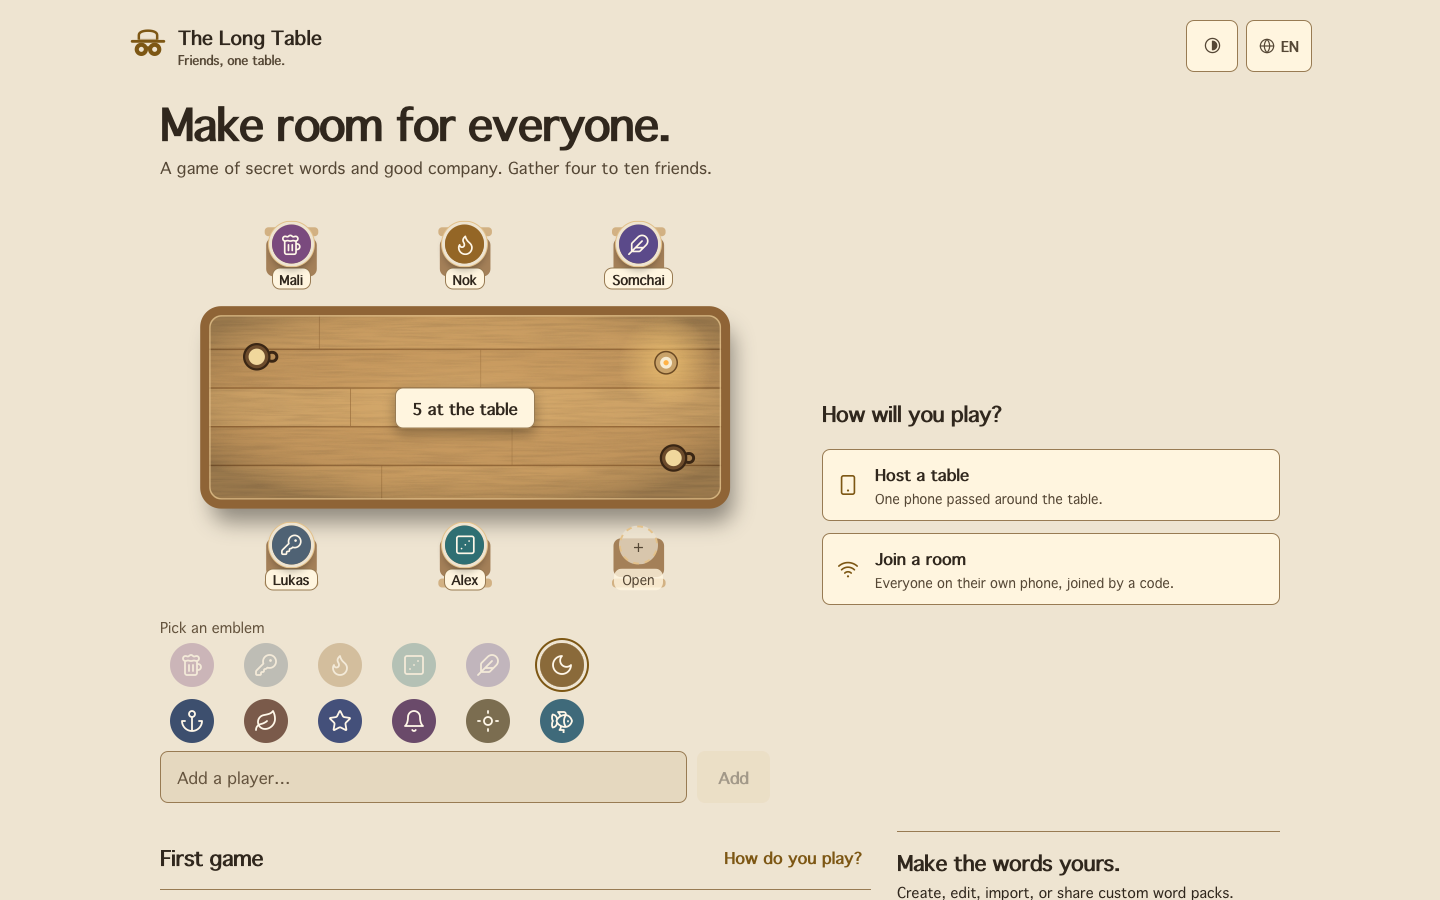
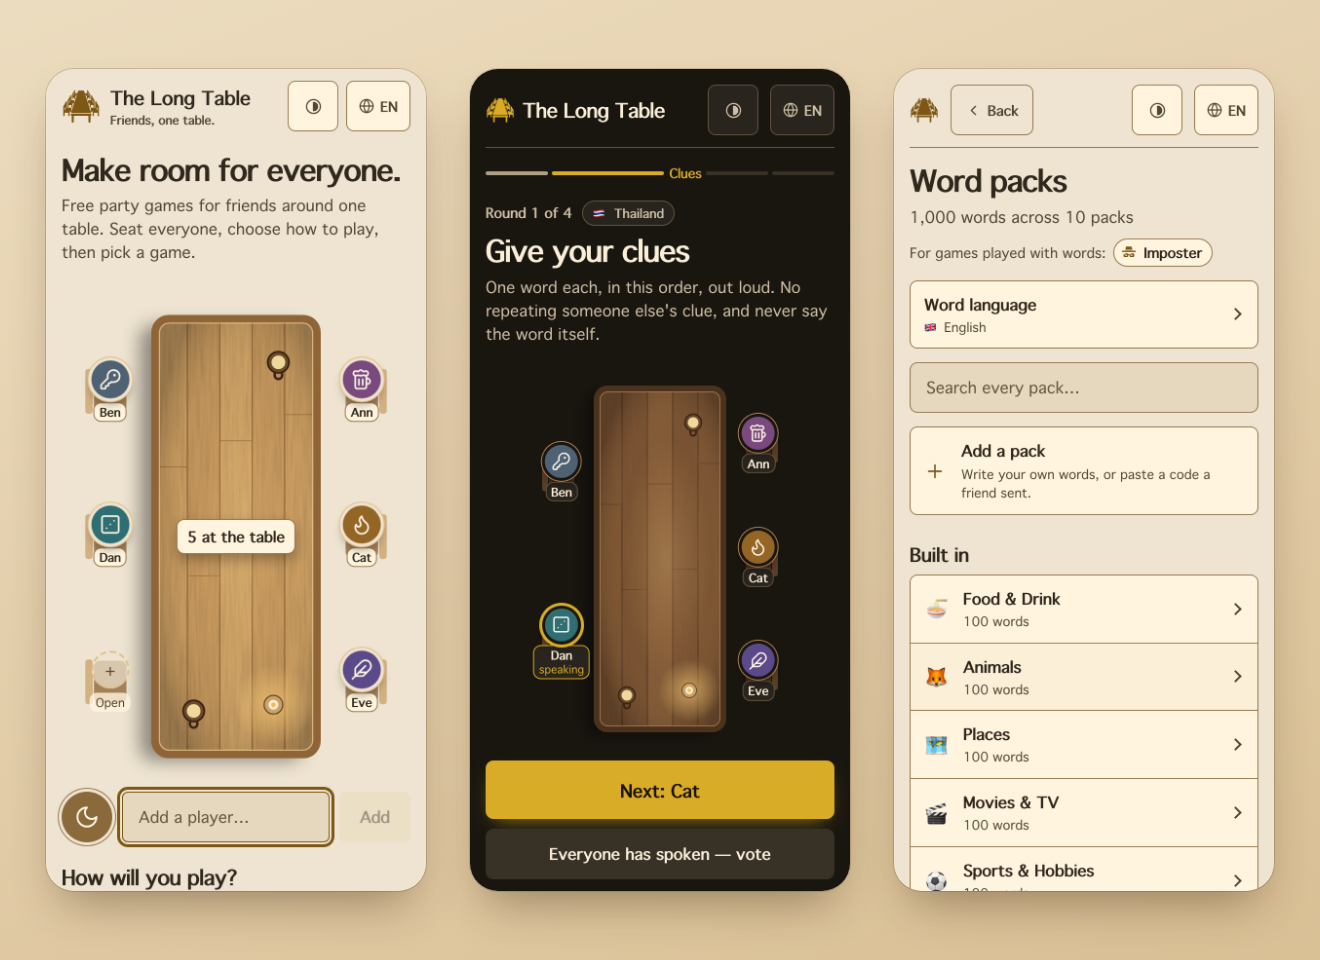
README rebuilt for the game as it is now (#119) (#128)
Features gain the community library and what makes it suit a table; the
rules, looks and sound sections match the rows-and-sheets settings and the
Display sheet; the recipes cover motion tokens, interaction.css,
motionMs and adding a sound; the structure lists ui/sound and the
community packs; the screenshot shows the hub, a round in dark and the
pack library. The GitHub About description and topics match (netlify
removed).

Closes #119

diff --git a/README.md b/README.md
@@ -10,17 +10,19 @@ Free, highly customisable party games for friends around one table, on one phone
 
 **[Play The Long Table →](https://unknown-x0.github.io/The-Long-Table/)** · [Changelog](CHANGELOG.md) · [Playtest guide](PLAYTEST.md) · [Report a bug](https://github.com/UNKNOWN-X0/The-Long-Table/issues)
 
-![The Long Table](assets/preview.png)
+![The hub with five people seated, a round of clues in dark mode, and the word pack library](assets/preview.png)
 
 ## Features
 
 - **Free:** no account, no ads, no tracking and nothing to buy. Open source: the code is MIT and the built-in word packs are CC BY-NC-SA 4.0.
-- **Highly customisable:** your own word packs (typed, pasted, written with any AI chat, or loaded from a friend's share code), presets or every rule by hand, optional roles, scoring, an emblem for every player, five wood themes in light or dark.
+- **Highly customisable:** your own word packs (typed, pasted, written with any AI chat, or loaded from a friend's share code), four presets or every rule by hand, optional roles, scoring, a clue timer, an emblem for every player, five wood themes in light or dark.
+- **A community library:** share a pack with everyone through a short GitHub form; once it has been read it appears under **From the community** in every table's pack library, one tap from **Add to my packs**.
 - **One table for every game:** the group sits down once at the hub, each with a name and an emblem, and every game starts with the people already seated.
 - **Two ways to play:** pass one phone around the table, or everyone on their own phone in a room joined by a code or a link.
 - **Imposter, the first game:** everyone but the imposters gets the same secret word; one-word clues, a vote, and a last guess for the imposter. Ten built-in packs per language.
 - **Three languages:** English, Thai and German, with the interface language and the word language chosen separately.
 - **Fair by design:** your card shows only while you hold it, and a room's server never sends a phone a word or role it should not hold.
+- **Made for a table:** the button you need next stays under your thumb, every step opens at its top, the verdict gets a moment of suspense, and sound effects (off until you turn them on) mark the deal, the card, the vote and the win.
 - **Picks up where you left off:** saved one-phone rounds, room reconnection, players shown as away, and the host role handed on when the host leaves.
 
 ## Getting started
@@ -53,14 +55,16 @@ For phone-to-phone play, `npm run party` builds the site and serves it on your w
 | One phone | Seat everyone at the hub, choose **Play on one phone**, pick a game, then pass the phone; each player holds their card to see it, and it covers again when they let go. | A browser. Use the link above. |
 | Room | The host chooses **Play in a room** and picks a game; everyone else joins on their own phone with the code (**Have a code?**) or the link the host shares. | The Node server, on the same wifi or publicly hosted ([Deploying](#deploying)). |
 
+New to it? **How it works**, at the foot of the hub, explains the table; each game's card has its own **How to play**.
+
 ### Making it yours
 
 Everything here is a setting or a pack, with no code:
 
 - **Word packs:** open the pack library from the hub. Write a pack by typing or pasting one entry per line (`word, near miss`), or use **Write it with AI** to copy a ready prompt into any AI chat and paste its answer back. The editor reports every line it could not use, quoting it. **Send this to anybody** turns a pack into a code a friend can load, and **Share it with everyone** sends it to the community library: a reviewed pack appears under **From the community** in every table's pack library, with **Add to my packs**.
-- **Rules:** start from Quick, Careful or Chaos, then change anything under **Customize rules and roles**: how many imposters, what they see, whether they know, rounds, calling the word, the last guess, roles and scoring.
+- **Rules:** pick **Standard**, **Quick**, **Careful** or **Chaos**, then change anything in the list below them: each setting is one row saying what it is set to, and tapping it opens its choices. How many imposters, what they see, whether they know, rounds, the time per speaker, calling the word, the last guess, roles and scoring. Change any of them and **Your own rules** says which preset you started from.
 - **The table:** each player picks one of twelve emblems; the host can tap a seat to remove someone.
-- **Looks and language:** five woods (Birch, Oak, Teak, Mahogany, Walnut) in light or dark, and English, Thai or German, each chosen per phone.
+- **Looks, sound and language:** the **Display** button holds light or dark, sound effects, and five woods (Birch, Oak, Teak, Mahogany, Walnut); the language button holds English, Thai or German. Each is chosen per phone, never for the whole table.
 
 ### The games
 
@@ -72,7 +76,7 @@ More games are planned ([roadmap](ROADMAP.md)); each joins the same table and pa
 
 ## Privacy
 
-Everything a group sets up stays in the browser's local storage on that phone: the party and emblems, settings, custom packs, scores and a saved one-phone round. Nothing is collected: no account, no analytics, no tracking. In a room, the server keeps each room in memory and sends every phone a scrubbed copy plus its own card, so the word never reaches an imposter's device; besides the game it shares only each player's emblem and whether their phone is connected. To survive a restart it writes rooms, including the word in play, to `.rooms.json` (mode `0600`, ignored by Git, `ROOM_STORE=off` to disable). Error reports name the version, mode, phase, player count and recent actions by name, never the word, the near miss, or who was dealt what.
+Everything a group sets up stays in the browser's local storage on that phone: the party and emblems, settings, custom packs, scores, the display, sound and language choices, and a saved one-phone round. Community packs ship with the site, so nothing is fetched from GitHub while you play. Nothing is collected: no account, no analytics, no tracking. In a room, the server keeps each room in memory and sends every phone a scrubbed copy plus its own card, so the word never reaches an imposter's device; besides the game it shares only each player's emblem and whether their phone is connected. To survive a restart it writes rooms, including the word in play, to `.rooms.json` (mode `0600`, ignored by Git, `ROOM_STORE=off` to disable). Error reports name the version, mode, phase, player count and recent actions by name, never the word, the near miss, or who was dealt what.
 
 ## Development
 
@@ -91,7 +95,9 @@ Each recipe ends in the test that catches the step people forget.
 - **A game that plays with words.** Set `words: true` on its entry in `src/games/index.js`; the pack library, the hub's packs section and its game card then name it as a game the packs are for. A game without words leaves it out and never shows the packs.
 - **Add a source of words.** A file in `src/content/words/sources.js` that answers `packsFor(lang, context)`.
 - **Add a theme.** An entry in `THEMES` (`src/ui/theme/themes.js`), `theme.<id>` in the three string tables, and two palette blocks in `src/ui/styles/tokens.css`. `src/ui/theme/theme.test.js` reads the stylesheet and reports a missing token, a contrast failure, or a chip unlike its theme.
-- **Change the look.** Two dials on `tokens.css`: `data-mode` and `data-theme`; the themes are Birch, Oak (default), Teak, Mahogany, and Walnut. `--accent` is the action fill with `--on-accent` on it; `--accent-text` is the contrast-checked action colour for words and icons. Icons live in `src/ui/icons/` (24px grid, one 1.8 stroke, one motion each behind `anim`); open `#icons` for the sheet. A new icon starts from the matching Lucide drawing (lucide-static 0.460.0, ISC; add it to `NOTICE.md`) with its animated parts wrapped in named groups. Non-essential motion follows the shared timing tokens and `prefers-reduced-motion`.
+- **Change the look.** Two dials on `tokens.css`: `data-mode` and `data-theme`; the themes are Birch, Oak (default), Teak, Mahogany, and Walnut. `--accent` is the action fill with `--on-accent` on it; `--accent-text` is the contrast-checked action colour for words and icons. Icons live in `src/ui/icons/` (24px grid, one 1.8 stroke, one motion each behind `anim`); open `#icons` for the sheet. Every interface icon is a Lucide drawing (lucide-static 0.460.0, ISC, listed in `NOTICE.md`); only the two marks in `brand.jsx` are the project's own.
+- **Motion.** Durations are tokens (`--motion-press`, `-state`, `-enter`, `-exit`, `-reveal`, `-beat`, `-celebration`); every animation sits behind `prefers-reduced-motion: no-preference`, and `styles.test.js` fails one that does not. Everything you tap presses and changes selection the same way, from one rule in `styles/interaction.css`. Code that waits for an animation reads the token with `motionMs()` (`src/ui/motionMs.js`), which understands the minifier's seconds.
+- **Add a sound.** An entry in `SOUNDS` (`src/ui/sound/index.js`), made with the Web Audio API, and a `play(name)` where the moment happens. A sound never tells a role: the card turning is one sound for everybody. `index.test.js` builds every sound against a stand-in audio context.
 - **The home-screen icon** is `public/icon.svg` plus `icon-maskable.svg`; `npm run icons` renders the PNGs and `npm test` checks their sizes.
 - **When something goes wrong.** Rule violations are codes and show as a banner. Anything unplanned gets the error screen or one quiet line, and a report that names the version, mode, phase, player count, error, and the last dozen actions **by name**: never the word, the decoy, or who was dealt what. Open `#crash` to see the error screen without waiting for a bug.
 
@@ -139,13 +145,15 @@ src/core/           the rules: a pure reducer. No DOM, no network, no clock, no 
                     modes, the name rule) · select.js (whose turn, who may see what) ·
                     deal.js · roles/ (one file per role) · scoring/ (every way to win)
 src/content/        the words and the history, as data: words/builtin/ (ten packs of a
-                    hundred per language), words/custom.js, words/sources.js, history/
+                    hundred per language), words/community/ (packs players shared),
+                    words/custom.js, words/sources.js, history/
 src/i18n/           one file per language, and the reader that picks a string
 src/party/          the people at the table, shared by the hub and every game: roster,
                     emblems, the add-player form and seat actions
-src/ui/             pieces that know nothing about a game: primitives/, icons/ (Lucide
-                    drawings and the twelve emblems), table/ (the feast table),
-                    theme/ (light, dark and the five woods), styles/
+src/ui/             pieces that know nothing about a game: primitives/ (shell, sheets
+                    and rows, choices, the hold card), icons/ (Lucide drawings and the
+                    twelve emblems), table/ (the feast table), theme/ (light, dark and
+                    the five woods), sound/ (Web Audio effects), styles/
 src/games/          the game catalog: one entry per game, read by the hub and the library
 src/features/       pieces that do know: hub, library, lobby, round, packs, rules, changelog,
                     errors
@@ -154,7 +162,7 @@ src/testing/        the checks that are about the project, not about a game, and
                     three browser sweeps (every screen, every ending, every room)
 server/             static files plus the room API, zero dependencies
 tools/              verify, coverage, fingerprint, icons
-assets/preview.png  Screenshot for this README
+assets/preview.png  Screenshots for this README
 ```
 
 Nothing in `core` imports React; nothing in `ui` imports the engine; both modes render the same `features` and differ only in who is holding the phone. The server keeps the authoritative state and sends each phone a scrubbed copy plus its own card; live updates are Server-Sent Events. Interface language is a per-device choice; word language belongs to the table, which is why rule violations travel as codes (`core/errors.js`) and are rendered in each phone's own language.
